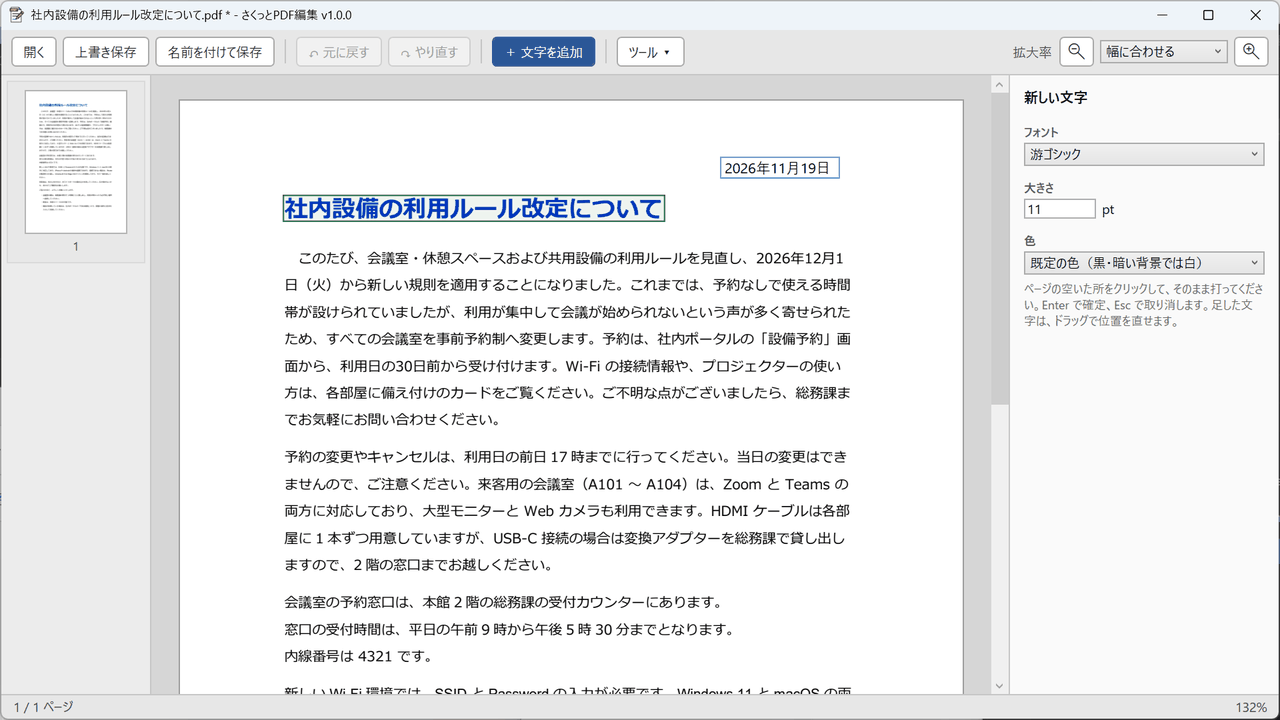
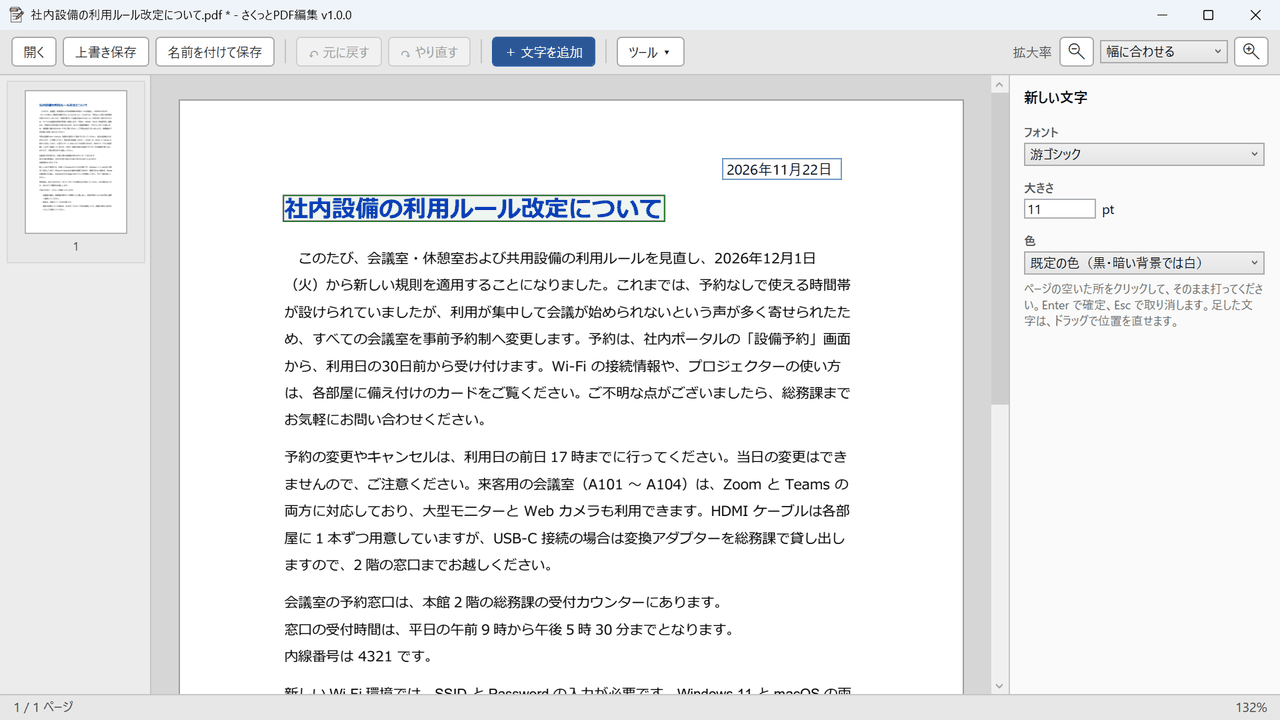
fix(lp): 画面写真を最終版の撮り直しに合わせ、alt・キャプションとアプリの名前をそろえる
- ss3_ja・ss4_ja・ss6_ja・ss4_en・ss6_en を今の Store 用の写真から作り直す（L1 と同じ作り方: Lanczos 1920→1280・256 色メディアンカット・ディザなし）。ほかの 5 枚は中身が同じなのでそのまま
- 図 4（日英）の alt の日付を 11 月 22 日に。英語の図 5 はタブ名「Extract Text」・「Merge PDF tab」に
- 英語: 「permissions (owner) password」（2 か所）・同梱フォントを Noto Sans JP・Noto Serif JP・Liberation Sans と書く
- 図 1（日英）のキャプションに、段落を折り返し直したところだと一文足す。英語の図 2・図 3 の alt から写真に出ていない元の値を外す
- 使っていない .screen-note を style.css から外す。最初の画面より下の写真 5 枚に loading="lazy" decoding="async" を戻す
- sitemap.xml: 日英のトップページの lastmod を 2026-11-22 に

diff --git a/en/index.html b/en/index.html
@@ -173,15 +173,15 @@
   <div class="sec-head"><h2 id="h-how">How it works</h2></div>
   <div class="sec-body">
     <figure class="fig">
-      <div class="mat"><img src="../ss3_en.png" alt="The app window with a fictional notice, &quot;Office Access Update&quot;, open and the first line of a paragraph selected: the page thumbnail on the left, the page in the middle, and the selected text's details on the right. The paragraph has just been rewrapped, and the right panel says the text was changed (Calibri, 11.04 pt, left-aligned)" width="1280" height="720"></div>
-      <figcaption class="figcap"><h3><small>Figure 1</small>Open a PDF</h3><p>Click Open or drag a PDF onto the window. Page thumbnails appear on the left, the page in the middle, and the selected text's details on the right.</p></figcaption>
+      <div class="mat"><img src="../ss3_en.png" alt="The app window with a fictional notice, &quot;Office Access Update&quot;, open and the first line of a paragraph selected: the page thumbnail on the left, the page in the middle, and the selected text's details on the right. The paragraph has just been rewrapped, and the right panel says the text was changed (Calibri, 11.04 pt, left-aligned)" width="1280" height="720" loading="lazy" decoding="async"></div>
+      <figcaption class="figcap"><h3><small>Figure 1</small>Open a PDF</h3><p>Click Open or drag a PDF onto the window. Page thumbnails appear on the left, the page in the middle, and the selected text's details on the right. Here a paragraph has just been rewrapped.</p></figcaption>
     </figure>
     <figure class="fig">
-      <div class="mat"><img src="../ss1_en.png" alt="A one-line edit box opened in place on a list item of a fictional notice, &quot;Holiday Closure Notice&quot;, with the date being retyped from December 11 to December 18. The right panel shows the original font, ArialMT, and 10.5 pt, left-aligned" width="1280" height="720"></div>
+      <div class="mat"><img src="../ss1_en.png" alt="A one-line edit box opened in place on a list item of a fictional notice, &quot;Holiday Closure Notice&quot;, with the date being retyped to December 18. The right panel shows the original font, ArialMT, and 10.5 pt, left-aligned" width="1280" height="720" loading="lazy" decoding="async"></div>
       <figcaption class="figcap"><h3><small>Figure 2</small>Click and retype</h3><p>Click the text to select it, then click again to open an edit box in place. Retype, then press Enter to confirm or Esc to cancel. Right-aligned numbers in a table keep their right edge.</p></figcaption>
     </figure>
     <figure class="fig">
-      <div class="mat"><img src="../ss5_en.png" alt="After a phone number on page 2 of a fictional notice, &quot;Monthly Notice&quot;, was retyped from 555-0142 to 555-0187, the right panel says the old value is still found in one place: text on another page (page 1)" width="1280" height="720"></div>
+      <div class="mat"><img src="../ss5_en.png" alt="After a phone number on page 2 of a fictional notice, &quot;Monthly Notice&quot;, was retyped to 555-0187, the right panel says the old value is still found in one place: text on another page (page 1)" width="1280" height="720" loading="lazy" decoding="async"></div>
       <figcaption class="figcap"><h3><small>Figure 3</small>Save as a new file</h3><p>Before you save, check for places you missed. If the old value (such as a phone number or a date) still appears on other pages, the right panel lists where. The first save always asks where to save and suggests the original name plus "_edited", so the original file stays as it is.</p></figcaption>
     </figure>
   </div>
@@ -196,11 +196,11 @@
       <div><dt>Paragraph rewrap</dt><dd><p>Edit a multi-line paragraph in one edit box.</p><p>Added words flow to the next line, and removed words pull the next line up. Lines before your change stay put. Works on horizontal, left-aligned (including justified) paragraphs in a single style.</p></dd></div>
       <div><dt>Add text</dt><dd><p>Write anywhere on the page.</p><p>Put your name and the date on a form with no input fields, for example. Set the default font and size under "Settings…". You can change the style and position later.</p></dd></div>
       <div><dt>Move</dt><dd><p>Move original text as well as text you added.</p><p>Drag, or use the arrow keys (0.5 pt per press, 5 pt with Shift). Guides and snapping line text up with nearby lines and edges. Text in table cells moves without getting cut off.</p></dd></div>
-      <div><dt>Font, size and color</dt><dd><p>Restyle existing text, too.</p><p>Fonts: the original font, bundled sans-serif, serif and Latin fonts, or fonts on your PC. Sizes from 4 to 96 pt. Colors: current color, black, red or blue.</p></dd></div>
+      <div><dt>Font, size and color</dt><dd><p>Restyle existing text, too.</p><p>Fonts: the original font, the bundled Noto Sans JP, Noto Serif JP and Liberation Sans, or fonts on your PC. Sizes from 4 to 96 pt. Colors: current color, black, red or blue.</p></dd></div>
       <div><dt>Delete and undo</dt><dd><p>Delete a selected block with the Delete key.</p><p>Undo (Ctrl+Z) and redo (Ctrl+Y) go one step per action.</p></dd></div>
     </dl>
     <figure class="fig">
-      <div class="mat"><img src="../ss4_en.png" alt="A fictional notice, &quot;Office Access Update&quot;, whose title was changed to blue, 20 pt, while the date &quot;November 21, 2026&quot; is being typed at the top right of the page with &quot;+ Add text&quot;. The right panel shows the font (Calibri), size (11 pt) and color for the new text" width="1280" height="720"></div>
+      <div class="mat"><img src="../ss4_en.png" alt="A fictional notice, &quot;Office Access Update&quot;, whose title was changed to blue, 20 pt, while the date &quot;November 22, 2026&quot; is being typed at the top right of the page with &quot;+ Add text&quot;. The right panel shows the font (Calibri), size (11 pt) and color for the new text" width="1280" height="720" loading="lazy" decoding="async"></div>
       <figcaption class="figcap"><h3><small>Figure 4</small>Restyle and add text</h3><p>The title was changed to blue, 20 pt, and a date is being typed at the top right with "+ Add text". The right panel shows the font, size and color for the new text.</p></figcaption>
     </figure>
   </div>
@@ -210,8 +210,8 @@
   <div class="sec-head"><h2 id="h-tools">Nine page tools</h2><p>Open them from the Tools menu to combine, divide and finish your PDFs.</p></div>
   <div class="sec-body">
     <figure class="fig">
-      <div class="mat"><img src="../ss6_en.png" alt="The Tools window with nine tabs: Merge PDF, Split PDF, Extract Pages, Text Extract, Watermark, Page Numbers, Header/Footer, Password and Image ↔ PDF. Three fictional notices are listed on the Merge PDF tab: Holiday Closure Notice (1 page), Monthly Notice (2 pages) and Office Access Update (1 page)" width="1280" height="720"></div>
-      <figcaption class="figcap"><h3><small>Figure 5</small>The Tools window</h3><p>Nine tabs switch between the tools. Here three fictional notices are listed on the Merge tab.</p></figcaption>
+      <div class="mat"><img src="../ss6_en.png" alt="The Tools window with nine tabs: Merge PDF, Split PDF, Extract Pages, Extract Text, Watermark, Page Numbers, Header/Footer, Password and Image ↔ PDF. Three fictional notices are listed on the Merge PDF tab: Holiday Closure Notice (1 page), Monthly Notice (2 pages) and Office Access Update (1 page)" width="1280" height="720" loading="lazy" decoding="async"></div>
+      <figcaption class="figcap"><h3><small>Figure 5</small>The Tools window</h3><p>Nine tabs switch between the tools. Here three fictional notices are listed on the Merge PDF tab.</p></figcaption>
     </figure>
     <ul class="tools">
       <li><b>Merge</b>Any number of files, in the order you set</li>
@@ -245,7 +245,7 @@
   <div class="sec-body">
     <table class="spec">
       <tr><th scope="row">Opens</th><td>PDF. PDFs that need a password to open can be opened with the password.</td></tr>
-      <tr><th scope="row">Editable text</th><td>Horizontal text in PDFs that contain text (for example, PDFs made from office or design software). PDFs with editing restrictions can be edited after entering the owner (permissions) password.</td></tr>
+      <tr><th scope="row">Editable text</th><td>Horizontal text in PDFs that contain text (for example, PDFs made from office or design software). PDFs with editing restrictions can be edited after entering the permissions (owner) password.</td></tr>
       <tr><th scope="row">Not editable</th><td><ul><li>Scanned pages (they are images, so their text can't be edited; there is no OCR)</li><li>Images in a PDF (no replacing, deleting or adding)</li><li>Vertical text, and text drawn as shapes (such as text converted to outlines)</li><li>Filling in PDF form fields</li><li>Certified PDFs that allow no changes</li></ul><small>When text can't be edited, the app tells you why as soon as you select it. Editing a signed PDF invalidates its signature (the app asks before the first edit).</small></td></tr>
       <tr><th scope="row">Styles</th><td>Fonts: the original font, bundled Noto Sans JP, Noto Serif JP and Liberation Sans, or fonts on your PC that allow embedding<br>Sizes: 4–96 pt / Colors: current color, black, red, blue<small>No bold/italic toggle. Selecting or moving several blocks at once is not supported.</small></td></tr>
       <tr><th scope="row">Paragraph rewrap</th><td>Horizontal, left-aligned (including justified) paragraphs written in a single style.<small>Rewritten lines are left-aligned. Tables and pictures below a paragraph are not moved, so a paragraph can't grow into space that is already taken (the app tells you why). Paragraphs that can't be rewrapped can still be edited line by line.</small></td></tr>
@@ -268,7 +268,7 @@
       <div><dt>If my text gets longer, does it flow to the next line?</dt><dd><strong>Yes.</strong> A multi-line paragraph can be edited as a whole in one edit box, and added words flow to the next line. This works on horizontal, left-aligned (including justified) paragraphs in a single style.</dd></div>
       <div><dt>Can I move text around?</dt><dd><strong>Yes.</strong> Both original text and text you added can be moved by dragging or with the arrow keys, with guides to line it up.</dd></div>
       <div><dt>Can I undo a mistake?</dt><dd><strong>Yes.</strong> Undo (Ctrl+Z) takes back one action at a time, and Redo (Ctrl+Y) brings it back.</dd></div>
-      <div><dt>Can I edit password-protected PDFs?</dt><dd><strong>Yes.</strong> Enter the open password to open the file. For a PDF with editing restrictions, enter the owner (permissions) password to edit it.</dd></div>
+      <div><dt>Can I edit password-protected PDFs?</dt><dd><strong>Yes.</strong> Enter the open password to open the file. For a PDF with editing restrictions, enter the permissions (owner) password to edit it.</dd></div>
       <div><dt>Can it merge and split PDFs, too?</dt><dd><strong>Yes.</strong> The Tools menu has nine page tools: merge, split, extract pages, extract text, watermark, page numbers, header/footer, password and image ↔ PDF.</dd></div>
       <div><dt>Does it work without an internet connection?</dt><dd><strong>Yes.</strong> It works fully offline, and your PDFs are never uploaded.</dd></div>
       <div><dt>Is it a one-time purchase?</dt><dd><strong>Yes.</strong> Buy it once on the Microsoft Store and keep using it with no monthly fee.</dd></div>

diff --git a/index.html b/index.html
@@ -169,15 +169,15 @@
   <div class="sec-head"><h2 id="h-how">使い方</h2></div>
   <div class="sec-body">
     <figure class="fig">
-      <div class="mat"><img src="ss3_ja.png" alt="さくっとPDF編集の窓。架空の案内文を開いて、段落の 1 行目を選んだところ。左にページの一覧、真ん中にページ、右に「選んだ文字」の欄（フォントと大きさ）" width="1280" height="720"></div>
-      <figcaption class="figcap"><h3><small>図 1</small>PDF を開く</h3><p>「開く」ボタンで選ぶか、窓に PDF をドラッグ＆ドロップします。左にページの一覧、真ん中にページ、右に選んだ文字の欄が出ます。</p></figcaption>
+      <div class="mat"><img src="ss3_ja.png" alt="さくっとPDF編集の窓。架空の案内文を開いて、段落の 1 行目を選んだところ。左にページの一覧、真ん中にページ、右に「選んだ文字」の欄（フォントと大きさ）" width="1280" height="720" loading="lazy" decoding="async"></div>
+      <figcaption class="figcap"><h3><small>図 1</small>PDF を開く</h3><p>「開く」ボタンで選ぶか、窓に PDF をドラッグ＆ドロップします。左にページの一覧、真ん中にページ、右に選んだ文字の欄が出ます。段落を折り返し直したところです。</p></figcaption>
     </figure>
     <figure class="fig">
-      <div class="mat"><img src="ss1_ja.png" alt="箇条書きの 1 行をクリックして、その場に開いた入力欄で日付を「27」日に打ち直しているところ。右の欄に元のフォント「YuMincho-Regular」と「10.56 pt・左寄せ」" width="1280" height="720"></div>
+      <div class="mat"><img src="ss1_ja.png" alt="箇条書きの 1 行をクリックして、その場に開いた入力欄で日付を「27」日に打ち直しているところ。右の欄に元のフォント「YuMincho-Regular」と「10.56 pt・左寄せ」" width="1280" height="720" loading="lazy" decoding="async"></div>
       <figcaption class="figcap"><h3><small>図 2</small>クリックして打ち直す</h3><p>直したい文字をクリックして選び、もう一度クリックすると、その場に入力欄が開きます。打ち直して Enter で確定、Esc で取り消しです。表の右寄せの数字は、右端をそろえたまま書き換わります。</p></figcaption>
     </figure>
     <figure class="fig">
-      <div class="mat"><img src="ss5_ja.png" alt="2 ページ目の電話番号を書き換えた後の画面。右の欄に「元の値が、まだ次の場所に残っています。」と、「ほかのページの文字（1 ページ目）: 1 か所」が出ている" width="1280" height="720"></div>
+      <div class="mat"><img src="ss5_ja.png" alt="2 ページ目の電話番号を書き換えた後の画面。右の欄に「元の値が、まだ次の場所に残っています。」と、「ほかのページの文字（1 ページ目）: 1 か所」が出ている" width="1280" height="720" loading="lazy" decoding="async"></div>
       <figcaption class="figcap"><h3><small>図 3</small>別の名前で保存する</h3><p>保存の前に、直し忘れも確かめられます。書き換えた元の値（電話番号・日付など）がほかのページに残っていれば、右の欄にその場所が出ます。最初の保存では必ず保存先を聞きます。初めは元の名前に「_編集済み」を付けた名前が入っているので、元のファイルはそのまま残ります。</p></figcaption>
     </figure>
   </div>
@@ -196,7 +196,7 @@
       <div><dt>消す・元に戻す</dt><dd><p>選んだ文字のまとまりを、Delete キーで消せます。</p><p>元に戻す（Ctrl+Z）・やり直す（Ctrl+Y）は、1 回の操作を 1 回で戻します。</p></dd></div>
     </dl>
     <figure class="fig">
-      <div class="mat"><img src="ss4_ja.png" alt="架空の案内文の題名を青・18 pt に変えた後、「＋ 文字を追加」でページの右上に日付「2026年11月19日」を打っているところ。右の欄に、足す文字のフォント（游ゴシック）・大きさ（11 pt）・色" width="1280" height="720"></div>
+      <div class="mat"><img src="ss4_ja.png" alt="架空の案内文の題名を青・18 pt に変えた後、「＋ 文字を追加」でページの右上に日付「2026年11月22日」を打っているところ。右の欄に、足す文字のフォント（游ゴシック）・大きさ（11 pt）・色" width="1280" height="720" loading="lazy" decoding="async"></div>
       <figcaption class="figcap"><h3><small>図 4</small>書式を変えて、文字を足す</h3><p>元からある題名を青・18 pt に変えた後、「＋ 文字を追加」で右上に日付を打っているところです。右の欄は、足す文字のフォント・大きさ・色です。</p></figcaption>
     </figure>
   </div>
@@ -206,7 +206,7 @@
   <div class="sec-head"><h2 id="h-tools">9 つの道具</h2><p>「ツール」から開きます。ページをまとめる・分ける・整える作業に。</p></div>
   <div class="sec-body">
     <figure class="fig">
-      <div class="mat"><img src="ss6_ja.png" alt="「ツール」から開いた道具の窓。PDF 結合・PDF 分割・PDF 抜き出し・テキスト抽出・透かし・ページ番号・ヘッダー/フッター・パスワード・画像 ↔ PDF の 9 つのタブがあり、PDF 結合のタブで架空の案内文 3 つを一覧に入れたところ" width="1280" height="720"></div>
+      <div class="mat"><img src="ss6_ja.png" alt="「ツール」から開いた道具の窓。PDF 結合・PDF 分割・PDF 抜き出し・テキスト抽出・透かし・ページ番号・ヘッダー/フッター・パスワード・画像 ↔ PDF の 9 つのタブがあり、PDF 結合のタブで架空の案内文 3 つを一覧に入れたところ" width="1280" height="720" loading="lazy" decoding="async"></div>
       <figcaption class="figcap"><h3><small>図 5</small>「ツール」の窓</h3><p>9 つのタブで道具を切り替えます。PDF 結合のタブで、架空の案内文 3 つを一覧に入れたところです。</p></figcaption>
     </figure>
     <ul class="tools">

diff --git a/style.css b/style.css
@@ -128,7 +128,6 @@ html[lang="en"] .figcap{grid-template-columns:12em minmax(0,1fr)}
 html[lang="en"] .figcap h3{font-weight:600;font-size:1.4rem;line-height:1.2}
 .figcap h3 small{display:block;font-family:var(--sans);font-weight:700;font-size:.72rem;color:var(--ink-2);letter-spacing:.06em;margin-bottom:4px}
 .figcap p{font-size:.95rem;color:var(--ink-2);max-width:40em}
-.screen-note{font-size:.86rem;color:var(--ink-2);margin-bottom:24px;max-width:40em}
 
 /* features: a glossary, not cards */
 .gloss{border-top:2px solid var(--ink)}
